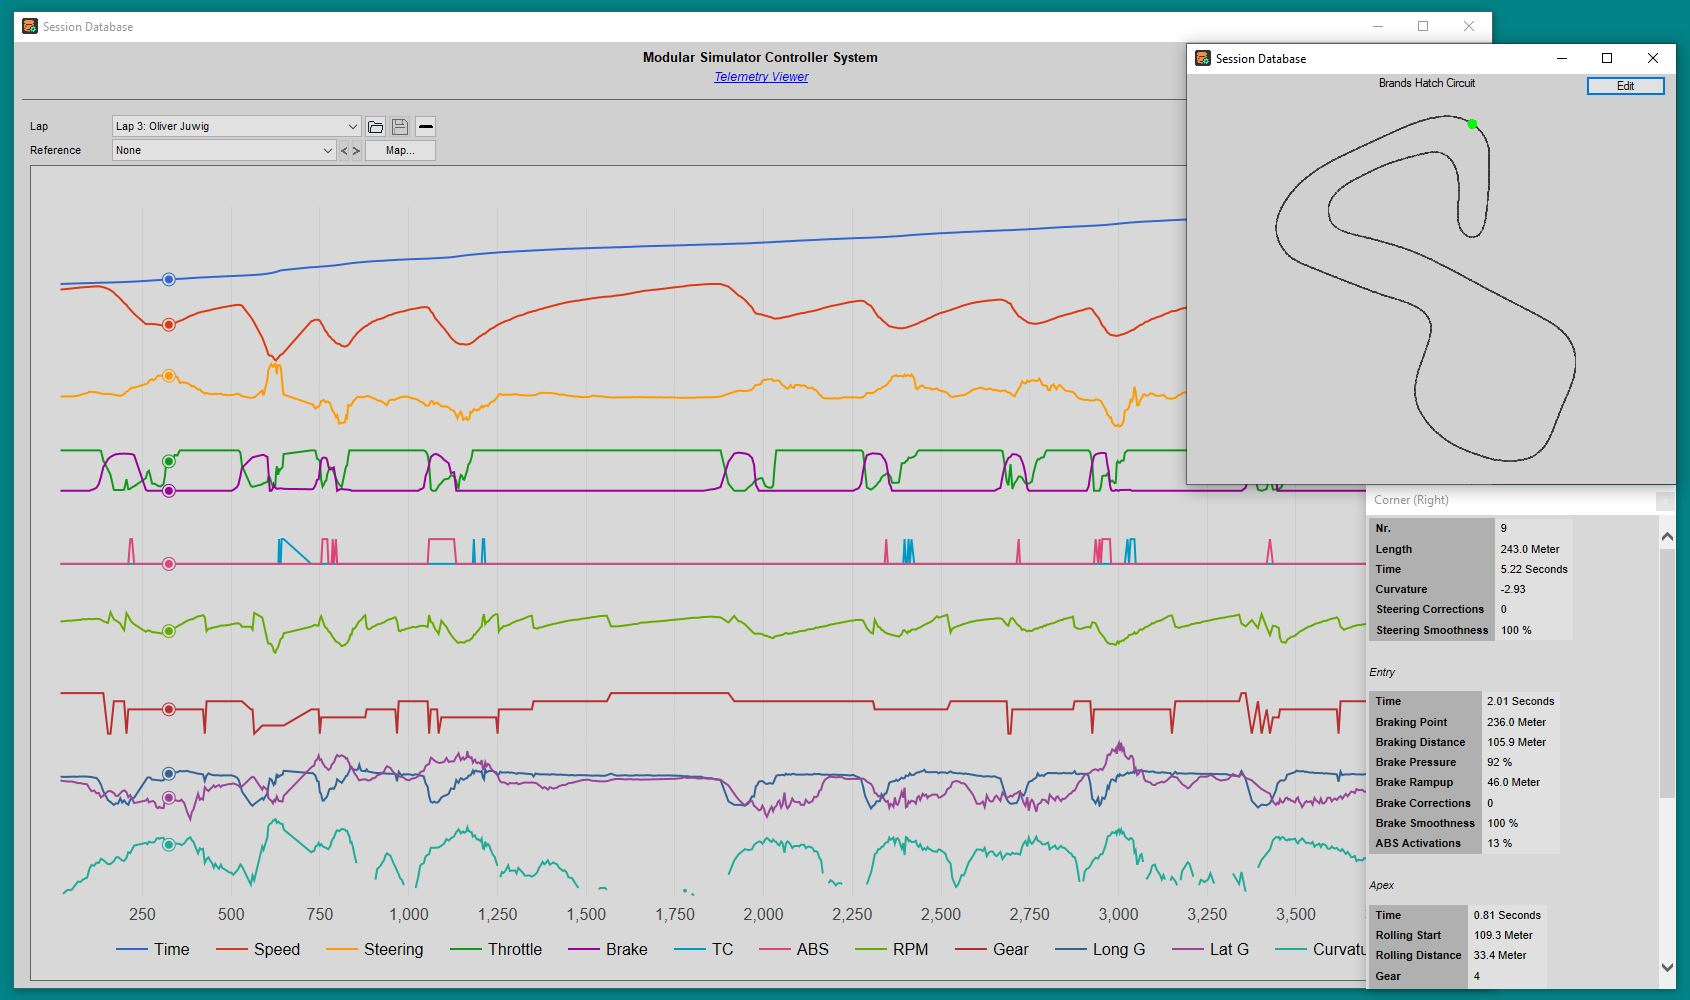
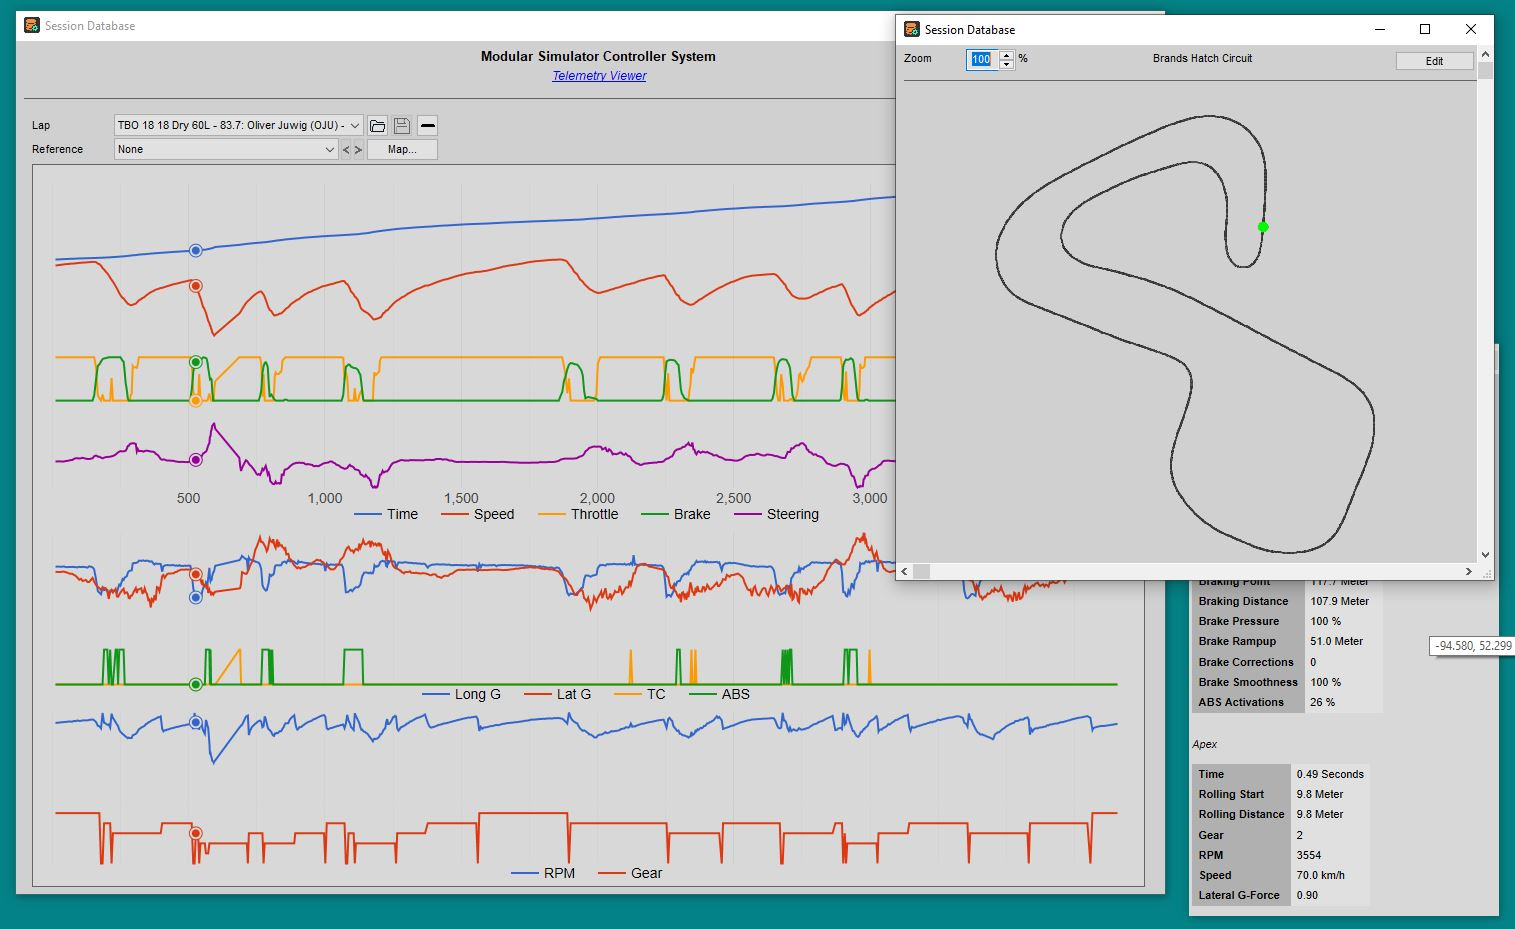
Support zoom factor in track map in the Telemetry Viewer

diff --git a/README.md b/README.md
@@ -49,7 +49,7 @@ Please read the [Release Notes](https://github.com/SeriousOldMan/Simulator-Contr
 
 #### Latest development build
 
-[6.6.3.0-dev](https://fileshare.impresion3d.pro/filebrowser/api/public/dl/gSwhEVBq/Releases/Simulator%20Controller%206.6.3.0-dev.zip) (Early build for 6.6.3. Changes: Retry loop for speech recognizer initialization, Handle non-active cars in Spotter multiclass warnings, Fixed ACC UDP configuration (again), Fixed redraw of data tab in "Solo Center", Fixed premature end in team races in LMU, Added missing translations, Increased max memory limit to 2048 MB, Fixed corrupted driver IDs in session database, Added support for scrollable windows.)
+[6.6.3.0-dev](https://fileshare.impresion3d.pro/filebrowser/api/public/dl/gSwhEVBq/Releases/Simulator%20Controller%206.6.3.0-dev.zip) (Early build for 6.6.3. Changes: Retry loop for speech recognizer initialization, Handle non-active cars in Spotter multiclass warnings, Fixed ACC UDP configuration (again), Fixed redraw of data tab in "Solo Center", Fixed premature end in team races in LMU, Added missing translations, Increased max memory limit to 2048 MB, Fixed corrupted driver IDs in session database, Added support for scrollable windows, Support zoom factor in track map in the Telemetry Viewer.)
 
 Please read the [Release Notes](https://github.com/SeriousOldMan/Simulator-Controller/wiki/Release-Notes#6630) and - sometimes even more important - the release specific [Update Notes](https://github.com/SeriousOldMan/Simulator-Controller/wiki/Update-Notes#release-663) of this version and all the versions you might have skipped, before installing and using this version.
 

diff --git a/Docs/Session Database.md b/Docs/Session Database.md
@@ -155,6 +155,8 @@ Important: This functionality may not be available when using *WebView2* as the 
 
 ![](https://github.com/SeriousOldMan/Simulator-Controller/blob/main/Docs/Images/Telemetry%20Browser%20Track%20Map.jpg)
 
+For very long tracks like the Nordschleife, it can be necessary to focus on parts of the track. This can be done by changing the zoom factor in the upper left corner of the window.
+
 Also, you can edit the track sections by clicking on the "Edit" button in the right corner of the window. This enables you to edit the sections as described above for the [sections editor](https://github.com/SeriousOldMan/Simulator-Controller/wiki/Session-Database#track--automation). When in "Edit" mode, you can either save the edited track sections by clicking on the "Save" button, or you can hold down the Control key and click on the "Cancel" button to discard all changes. Lastly, beside adding all sections by yourself, you can use the "Scan" button to create sections based on the currently selected lap telemetry data. But check the sections after they have been created, because the scanning method may have taken some wrong decisions.
 
 Good to know: Beside the dark gray dot which marks the start/finish line, a second gray dot may be present, which marks the currently selected track position. This is very helpful when creating sections based on driver inputs from the telemetry data. For example, set the start marker for a corner a few meters before the start of the braking zone.

diff --git a/Docs/Releases.md b/Docs/Releases.md
@@ -40,6 +40,7 @@
 #### Changes
 
   - Increased default max memory limit for all applications from 1024 MB to 2048 MB to allow for complex data situations, for example, browsing telemetry data for the *Nordschleife*.
+  - The track map window in the Telemetry Viewer now supports zooming into the map, which is very helpful for tracks like the Nordschleife.
   - [Developer] Added support for scrollable windows in GUI base library.
 
 # Release history
